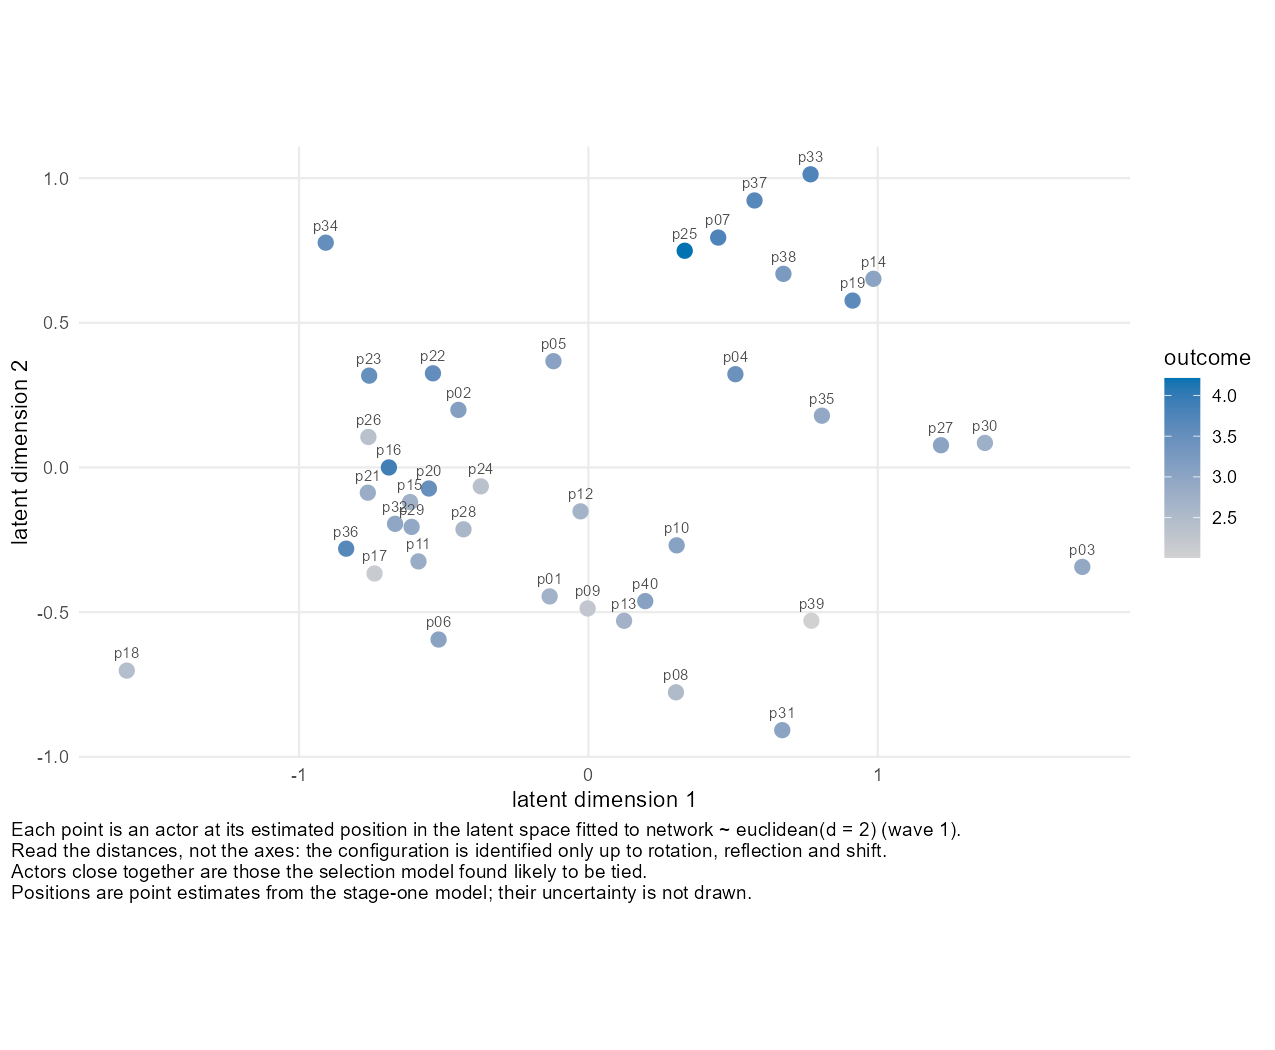
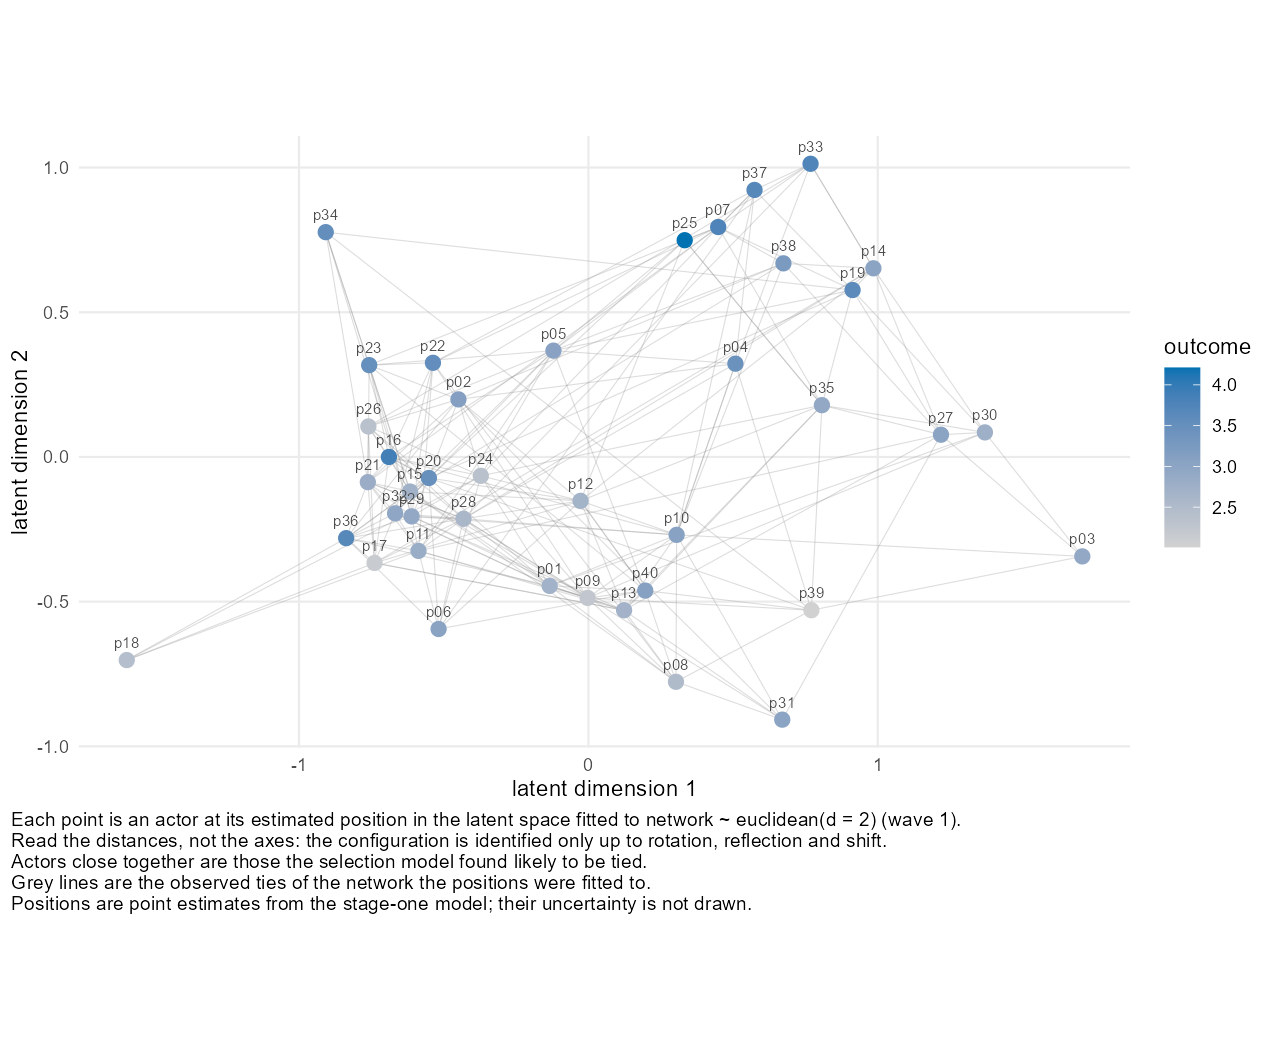
Latent plots: one panel for sender and receiver, and the observed ties drawn
A Selection fit's sending and receiving positions share one frame, and the
model's quantity is a relation between a sending point and a receiving point,
so they are now overlaid in two colours where they were two facets.

Both latent panels draw the observed ties as thin pale lines under the
points. On an Influence fit a line joins the two actors of a tie in the
network the positions were fitted to, which the fit now keeps. On a Selection
fit a line runs from the sender's sending position to the receiver's
receiving position.

run-latent-figs.R re-renders only these two figures.

diff --git a/pkgdown/assets/TUTORIAL.html b/pkgdown/assets/TUTORIAL.html
@@ -501,7 +501,7 @@ Computed on request: netis_dependence(), netis_assumptions(), pseudo_r2(), influ
 Design and estimation findings recorded at fit time: none.</pre></div><h3 id="p-the-latent-space-influence-model-reading-it" data-sec>Reading it</h3><p>Two things are new in the output.</p><ul><li><strong>The header</strong> says a latent-space adjustment was made, on which network, and that the positions are <em>estimated</em>.</li><li><strong>Two new rows</strong>, <code>lat_confides_1_d1</code> and <code>lat_confides_1_d2</code>, are the two dimensions of each person's position. <strong>Do not interpret these coefficients.</strong> The space has no fixed orientation, so the numbers would change if it were rotated. They are there to adjust the row above them.</li></ul><p>What to read is how the contagion effect changed:</p><div class="copy"><pre class="lang-r"><code>rbind(basic  = coef(fit)[c("affect_lag1", "ex_affect_confides")],
       latent = coef(fit_latent)[c("affect_lag1", "ex_affect_confides")])</code></pre><button type="button" class="copybtn" aria-label="Copy">Copy</button></div><div class="res"><span class="reslbl">Result</span><pre>       affect_lag1 ex_affect_confides
 basic      0.44628            0.48281
-latent     0.39117            0.29940</pre></div><p>The estimate fell from 0.48 to 0.30, and its interval now includes zero. Part of what the basic model called contagion is accounted for by where people sit in the network.</p><blockquote><strong>How to report this.</strong> Report both numbers. The basic model is the estimate under the assumption that confidants were not chosen on anything that drives mood. The adjusted model relaxes that assumption and costs precision. In these simulated data the truth is 0.5 and selection on affect was also built in, so both models are behaving as they should: with forty people, the adjustment cannot tell the two processes fully apart.</blockquote><h3 id="p-the-latent-space-influence-model-see-the-space" data-sec>See the space</h3><div class="copy"><pre class="lang-r"><code>plot(fit_latent, what = "latent")</code></pre><button type="button" class="copybtn" aria-label="Copy">Copy</button></div><figure><a href="tutorial-figures/i7-latent.png" target="_blank" rel="noopener"><img src="tutorial-figures/i7-latent.png" alt="Each point is a person at their estimated position. People close together are those the model found likely to confide in one another. Colour is affect at the second survey." loading="lazy"></a><figcaption>Each point is a person at their estimated position. People close together are those the model found likely to confide in one another. Colour is affect at the second survey.</figcaption></figure><p>Read <strong>distances</strong>, not axes. Whether a point is on the left or the right means nothing; who it is near does. If the colours cluster, with similar moods sitting together, position and mood are related, which is exactly the situation the adjustment is for.</p><details class="rare"><summary>What is <code>homophily =</code> for, and what should I put in it?</summary><p>By default the positions are estimated from the network alone. They then stand in for <em>every</em> reason people confide in one another, including similarity on characteristics you measured and already have in the model.</p><p><code>homophily =</code> names person characteristics that people may sort on. The network model then accounts for similarity on each of them directly, and the positions are left to describe what those characteristics do not explain. That remainder is what the adjustment is for: the traits you could not measure.</p><h4>What to put in it</h4><p>Generally, name the core person characteristics in your study that could plausibly shape who confides in whom. Those are the covariates in your influence model whose coefficients you care about, and anything else people are known to sort on. Xu, whose method this is, recommends conditioning the network model on observed homophily for the same reason.</p><h4>Why it helps</h4><p>Suppose people sort on extraversion and the network model is not told. The positions then absorb part of extraversion, and the influence model holds the same information twice: once in the <code>extraversion</code> column and once in the position columns. That overlap is collinearity, and it makes the coefficients you care about less clear. Naming the characteristic takes that information out of the positions before they enter the influence model.</p><p>The example below adds <code>extraversion</code> as a covariate and fits the model both ways. <code>overlap()</code> reports how much of extraversion the two position columns can reproduce, as an R-squared:</p><div class="copy"><pre class="lang-r"><code># How much of extraversion do the two position columns carry?
+latent     0.39117            0.29940</pre></div><p>The estimate fell from 0.48 to 0.30, and its interval now includes zero. Part of what the basic model called contagion is accounted for by where people sit in the network.</p><blockquote><strong>How to report this.</strong> Report both numbers. The basic model is the estimate under the assumption that confidants were not chosen on anything that drives mood. The adjusted model relaxes that assumption and costs precision. In these simulated data the truth is 0.5 and selection on affect was also built in, so both models are behaving as they should: with forty people, the adjustment cannot tell the two processes fully apart.</blockquote><h3 id="p-the-latent-space-influence-model-see-the-space" data-sec>See the space</h3><div class="copy"><pre class="lang-r"><code>plot(fit_latent, what = "latent")</code></pre><button type="button" class="copybtn" aria-label="Copy">Copy</button></div><figure><a href="tutorial-figures/i7-latent.png" target="_blank" rel="noopener"><img src="tutorial-figures/i7-latent.png" alt="Each point is a person at their estimated position. People close together are those the model found likely to confide in one another. Colour is affect at the second survey, and each grey line is a confiding tie at the first survey." loading="lazy"></a><figcaption>Each point is a person at their estimated position. People close together are those the model found likely to confide in one another. Colour is affect at the second survey, and each grey line is a confiding tie at the first survey.</figcaption></figure><p>Read <strong>distances</strong>, not axes. Whether a point is on the left or the right means nothing; who it is near does. If the colours cluster, with similar moods sitting together, position and mood are related, which is exactly the situation the adjustment is for. The grey lines are the ties the positions were estimated from: most of them should be short, because the model places people who confide in each other close together.</p><details class="rare"><summary>What is <code>homophily =</code> for, and what should I put in it?</summary><p>By default the positions are estimated from the network alone. They then stand in for <em>every</em> reason people confide in one another, including similarity on characteristics you measured and already have in the model.</p><p><code>homophily =</code> names person characteristics that people may sort on. The network model then accounts for similarity on each of them directly, and the positions are left to describe what those characteristics do not explain. That remainder is what the adjustment is for: the traits you could not measure.</p><h4>What to put in it</h4><p>Generally, name the core person characteristics in your study that could plausibly shape who confides in whom. Those are the covariates in your influence model whose coefficients you care about, and anything else people are known to sort on. Xu, whose method this is, recommends conditioning the network model on observed homophily for the same reason.</p><h4>Why it helps</h4><p>Suppose people sort on extraversion and the network model is not told. The positions then absorb part of extraversion, and the influence model holds the same information twice: once in the <code>extraversion</code> column and once in the position columns. That overlap is collinearity, and it makes the coefficients you care about less clear. Naming the characteristic takes that information out of the positions before they enter the influence model.</p><p>The example below adds <code>extraversion</code> as a covariate and fits the model both ways. <code>overlap()</code> reports how much of extraversion the two position columns can reproduce, as an R-squared:</p><div class="copy"><pre class="lang-r"><code># How much of extraversion do the two position columns carry?
 overlap &lt;- function(fit) {
   X &lt;- model.matrix(fit$backend_fit)
   positions &lt;- X[, grep("^lat_", colnames(X))]
@@ -893,7 +893,7 @@ both[, c("statistic", "observed.additive", "ppp.additive", "ppp.latent")]</code>
 2   dyad.dep         0.0143173       0.7175     0.6825
 3 sd.colmean         0.0564610       0.8975     0.9025
 4 sd.rowmean         0.0593718       0.8250     0.8350
-5  trans.dep         0.0042699       0.8500     0.8175</pre></div><p>The model without latent factors already reproduced all five features, and the latent factors do not change that. In these data they were not needed. That is a result worth reporting, because it says you looked: <em>adding two latent dimensions did not change the estimates or the fit check.</em></p><blockquote><strong>When they are needed.</strong> If the two triad features fall outside their ranges without latent factors and inside with them, the latent factors have found structure the predictors missed, and the model with them is the one to report.</blockquote><h3 id="p-the-latent-factor-selection-model-see-the-space" data-sec>See the space</h3><div class="copy"><pre class="lang-r"><code>plot(fit_latent, what = "latent")</code></pre><button type="button" class="copybtn" aria-label="Copy">Copy</button></div><figure><a href="tutorial-figures/s7-latent.png" target="_blank" rel="noopener"><img src="tutorial-figures/s7-latent.png" alt="Each person appears twice: on the left at their position as a sender, on the right at their position as a receiver. The two panels share one frame." loading="lazy"></a><figcaption>Each person appears twice: on the left at their position as a sender, on the right at their position as a receiver. The two panels share one frame.</figcaption></figure><p>Read the picture across the two panels. A person on the left is likelier to confide in a person on the right who lies in the <strong>same direction from the centre</strong>, and less likely where they lie in opposite directions. People near the centre are barely affected. The axes themselves mean nothing, because the space can be rotated without changing the model.</p><p>Here the points form one cloud around the centre with no separate groups, which is what <em>not needed</em> looks like. Clusters of senders sitting in the same direction as clusters of receivers would be the sign of structure.</p><details class="rare"><summary>How many dimensions?</summary><p>Start with <code>R = 1</code> or <code>R = 2</code> and look at the fit check. Raise <code>R</code> only while the features that were outside their ranges keep moving inside. Each dimension adds two numbers per person, estimated from the same ties, so a larger <code>R</code> makes everything noisier and the chain slower. With <code>R = 1</code>:</p><div class="copy"><pre class="lang-r"><code>fit_latent1 &lt;- fit_selection(
+5  trans.dep         0.0042699       0.8500     0.8175</pre></div><p>The model without latent factors already reproduced all five features, and the latent factors do not change that. In these data they were not needed. That is a result worth reporting, because it says you looked: <em>adding two latent dimensions did not change the estimates or the fit check.</em></p><blockquote><strong>When they are needed.</strong> If the two triad features fall outside their ranges without latent factors and inside with them, the latent factors have found structure the predictors missed, and the model with them is the one to report.</blockquote><h3 id="p-the-latent-factor-selection-model-see-the-space" data-sec>See the space</h3><div class="copy"><pre class="lang-r"><code>plot(fit_latent, what = "latent")</code></pre><button type="button" class="copybtn" aria-label="Copy">Copy</button></div><figure><a href="tutorial-figures/s7-latent.png" target="_blank" rel="noopener"><img src="tutorial-figures/s7-latent.png" alt="Each person appears twice: in blue at their position as a sender and in orange at their position as a receiver. Each grey line is an observed confiding tie, drawn from the sender&#x27;s blue point to the receiver&#x27;s orange point." loading="lazy"></a><figcaption>Each person appears twice: in blue at their position as a sender and in orange at their position as a receiver. Each grey line is an observed confiding tie, drawn from the sender's blue point to the receiver's orange point.</figcaption></figure><p>Read a blue point against an orange point. A person is likelier to confide in someone whose orange point lies in the <strong>same direction from the centre</strong> as their own blue point, and less likely where the two lie in opposite directions. People near the centre are barely affected. The axes themselves mean nothing, because the space can be rotated without changing the model.</p><p>The grey lines show the ties the model was fitted to. If the latent factors were capturing structure, the lines would mostly join blue and orange points on the same side of the centre, and few would cross it. Here the points form one cloud with no separate groups and the lines run in every direction, which is what <em>not needed</em> looks like.</p><details class="rare"><summary>How many dimensions?</summary><p>Start with <code>R = 1</code> or <code>R = 2</code> and look at the fit check. Raise <code>R</code> only while the features that were outside their ranges keep moving inside. Each dimension adds two numbers per person, estimated from the same ties, so a larger <code>R</code> makes everything noisier and the chain slower. With <code>R = 1</code>:</p><div class="copy"><pre class="lang-r"><code>fit_latent1 &lt;- fit_selection(
   confides ~ dyad(affect_gap, lag = 1) + dyad(same_project, lag = 1) +
     prior_tie(lag = 1),
   data = team, R = 1,

diff --git a/tools/tutorial/content_selection.py b/tools/tutorial/content_selection.py
@@ -690,19 +690,22 @@ page(
 
     h3("See the space"),
     codeonly('plot(fit_latent, what = "latent")'),
-    fig("s7-latent", "Each person appears twice: on the left at their "
-        "position as a sender, on the right at their position as a "
-        "receiver. The two panels share one frame."),
-    p("Read the picture across the two panels. A person on the left is "
-      "likelier to confide in a person on the right who lies in the **same "
-      "direction from the centre**, and less likely where they lie in "
-      "opposite directions. People near the centre are barely affected. "
-      "The axes themselves mean nothing, because the space can be rotated "
-      "without changing the model."),
-    p("Here the points form one cloud around the centre with no separate "
-      "groups, which is what *not needed* looks like. Clusters of senders "
-      "sitting in the same direction as clusters of receivers would be the "
-      "sign of structure."),
+    fig("s7-latent", "Each person appears twice: in blue at their "
+        "position as a sender and in orange at their position as a "
+        "receiver. Each grey line is an observed confiding tie, drawn from "
+        "the sender's blue point to the receiver's orange point."),
+    p("Read a blue point against an orange point. A person is likelier to "
+      "confide in someone whose orange point lies in the **same direction "
+      "from the centre** as their own blue point, and less likely where "
+      "the two lie in opposite directions. People near the centre are "
+      "barely affected. The axes themselves mean nothing, because the "
+      "space can be rotated without changing the model."),
+    p("The grey lines show the ties the model was fitted to. If the latent "
+      "factors were capturing structure, the lines would mostly join blue "
+      "and orange points on the same side of the centre, and few would "
+      "cross it. Here the points form one cloud with no separate groups "
+      "and the lines run in every direction, which is what *not needed* "
+      "looks like."),
 
     rare("How many dimensions?",
          p("Start with `R = 1` or `R = 2` and look at the fit check. Raise "

diff --git a/tools/tutorial/content_influence.py b/tools/tutorial/content_influence.py
@@ -664,11 +664,15 @@ page(
     codeonly('plot(fit_latent, what = "latent")'),
     fig("i7-latent", "Each point is a person at their estimated position. "
         "People close together are those the model found likely to confide "
-        "in one another. Colour is affect at the second survey."),
+        "in one another. Colour is affect at the second survey, and each "
+        "grey line is a confiding tie at the first survey."),
     p("Read **distances**, not axes. Whether a point is on the left or the "
       "right means nothing; who it is near does. If the colours cluster, "
       "with similar moods sitting together, position and mood are related, "
-      "which is exactly the situation the adjustment is for."),
+      "which is exactly the situation the adjustment is for. The grey "
+      "lines are the ties the positions were estimated from: most of them "
+      "should be short, because the model places people who confide in "
+      "each other close together."),
 
     rare("What is `homophily =` for, and what should I put in it?",
          p("By default the positions are estimated from the network alone. "

diff --git a/NEWS.md b/NEWS.md
@@ -78,11 +78,12 @@
 * `plot(fit, what = "latent")` on an Influence fit with a `latent()` term draws
   each actor at its estimated position in the latent space, coloured by the
   outcome. The distances between actors are what the stage-one model
-  identifies; the axes are not, and the caption says so.
+  identifies; the axes are not, and the caption says so. Both latent panels
+  draw the observed ties as light lines under the points.
 
 * `plot(fit, what = "latent")` on a Selection fit with `R > 0` draws each actor
   in the first two dimensions of the multiplicative effects, once as a sender
-  and once as a receiver. The coordinates are a decomposition of the posterior
+  and once as a receiver, in one frame and two colours. The coordinates are a decomposition of the posterior
   mean of the product `U V'`, which is identified, and not an average of `U`
   and `V`, which are not.
 

diff --git a/tools/tutorial/README.md b/tools/tutorial/README.md
@@ -29,6 +29,7 @@ last section.
 Rscript cap.R            # sourced by the run scripts; not run directly
 Rscript run-inf.R out    # the Influence sequence, A1 to A8, and its figures (~7 min)
 Rscript run-sel.R out    # the Selection sequence, B1 to B8, and its figures (~25 min)
+Rscript run-latent-figs.R out  # only when a latent-coordinates panel changed (~4 min)
 Rscript run-a.R out      # Getting started and the reference pages' data blocks (~10 s)
 Rscript run-c.R out      # reference pages                       (~1 s)
 Rscript run-g.R out      # the hand-built team data, fit statistics, interop (~30 s)
